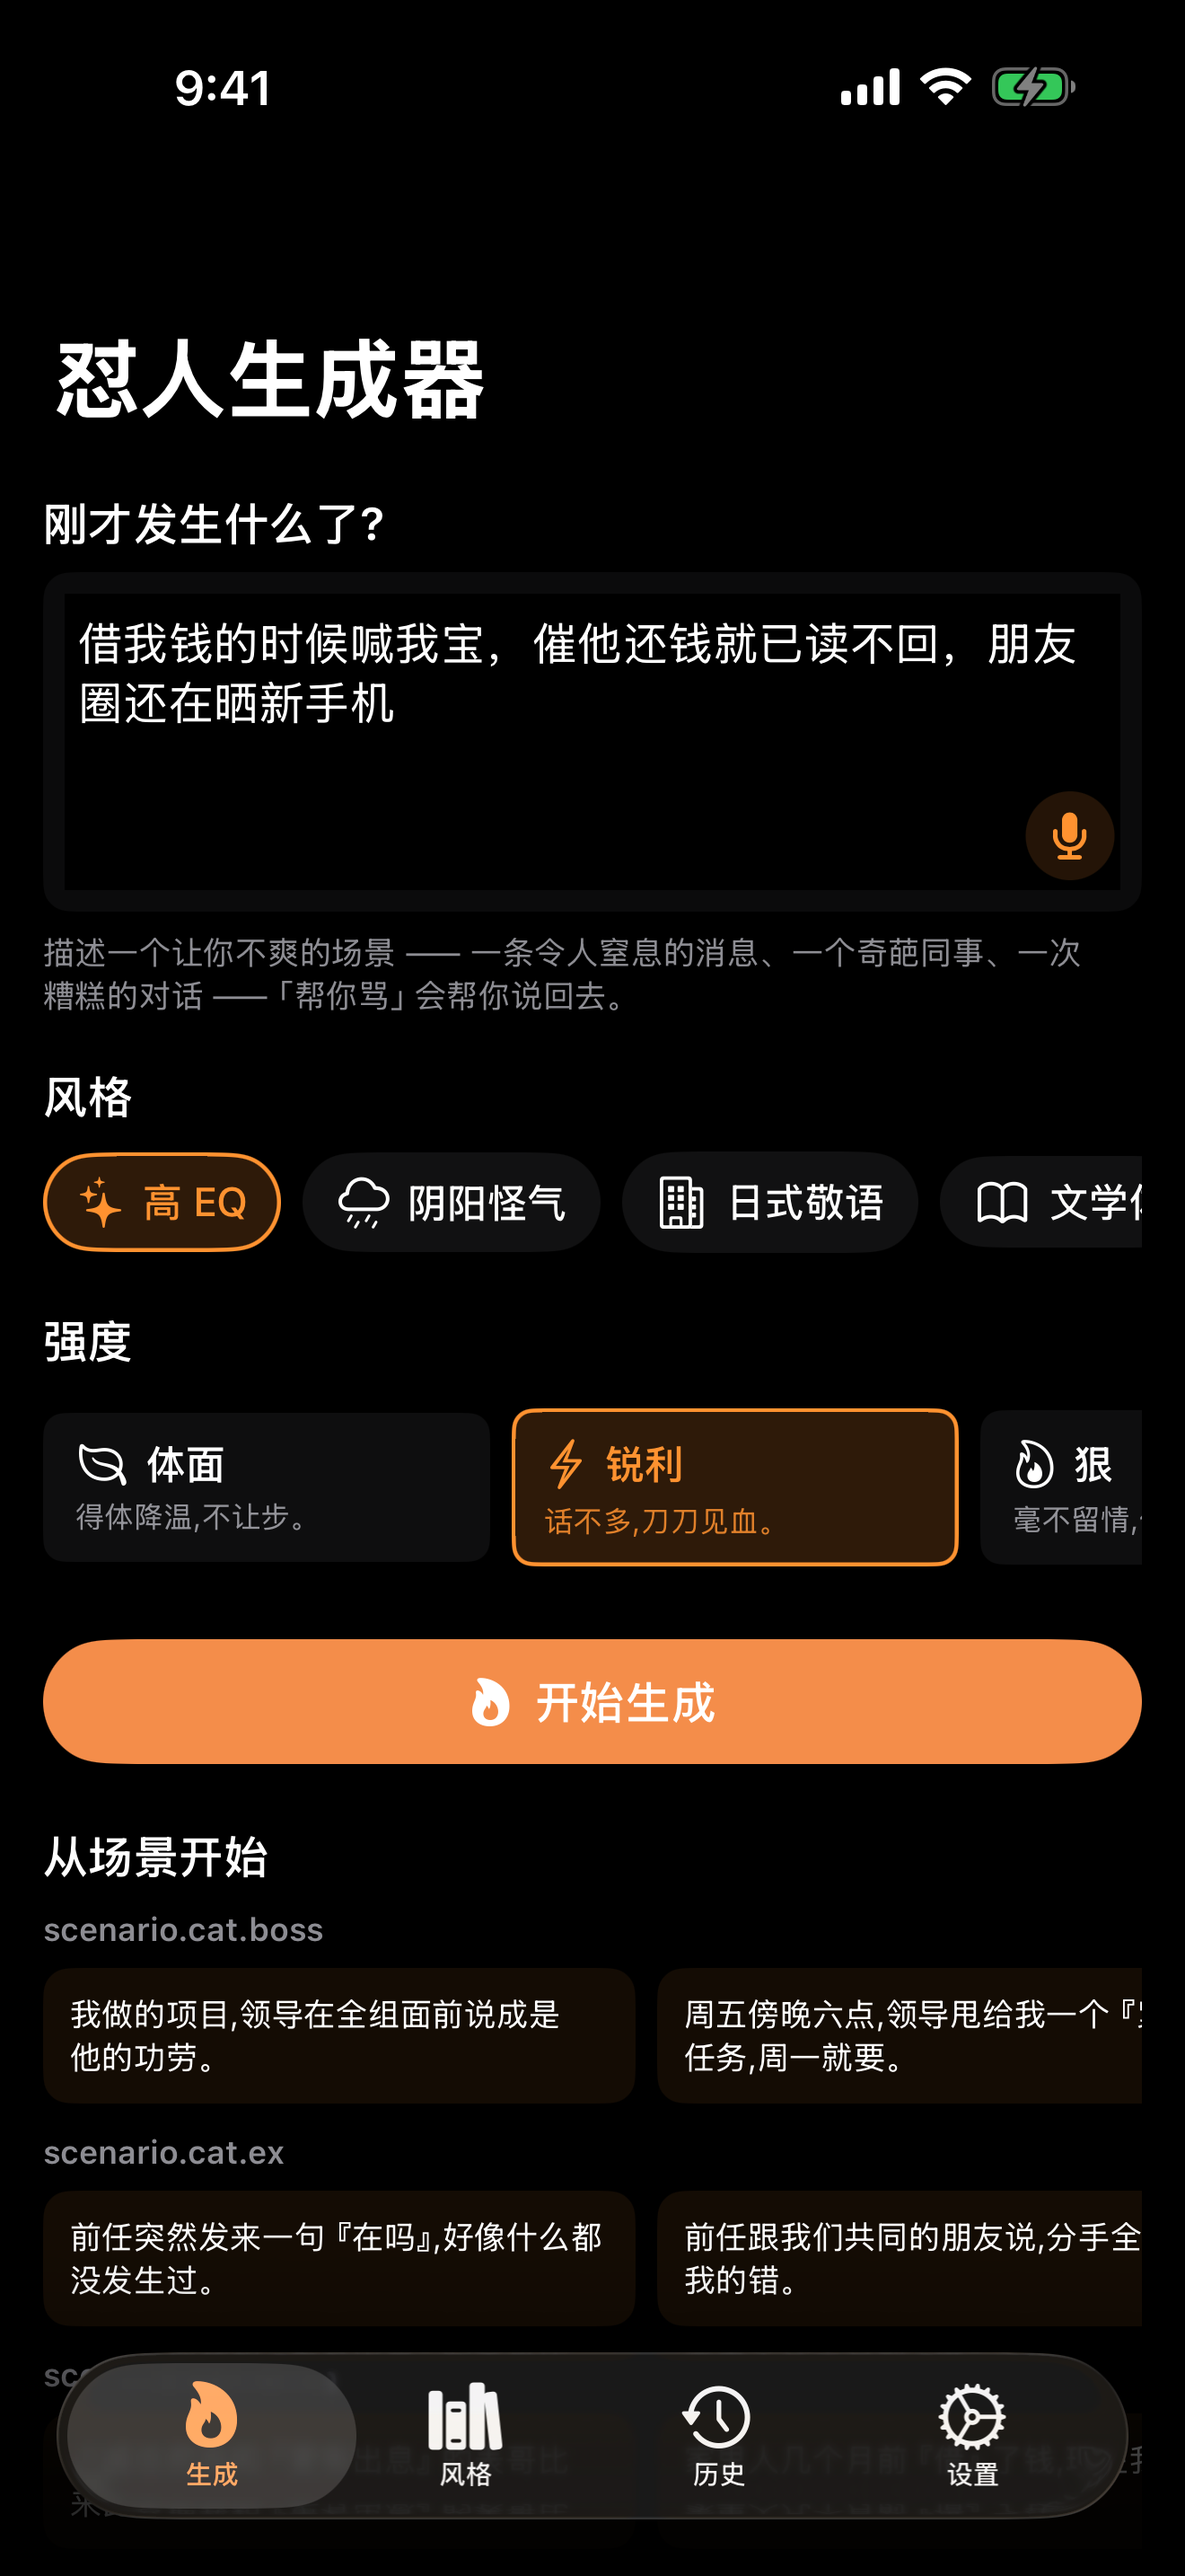
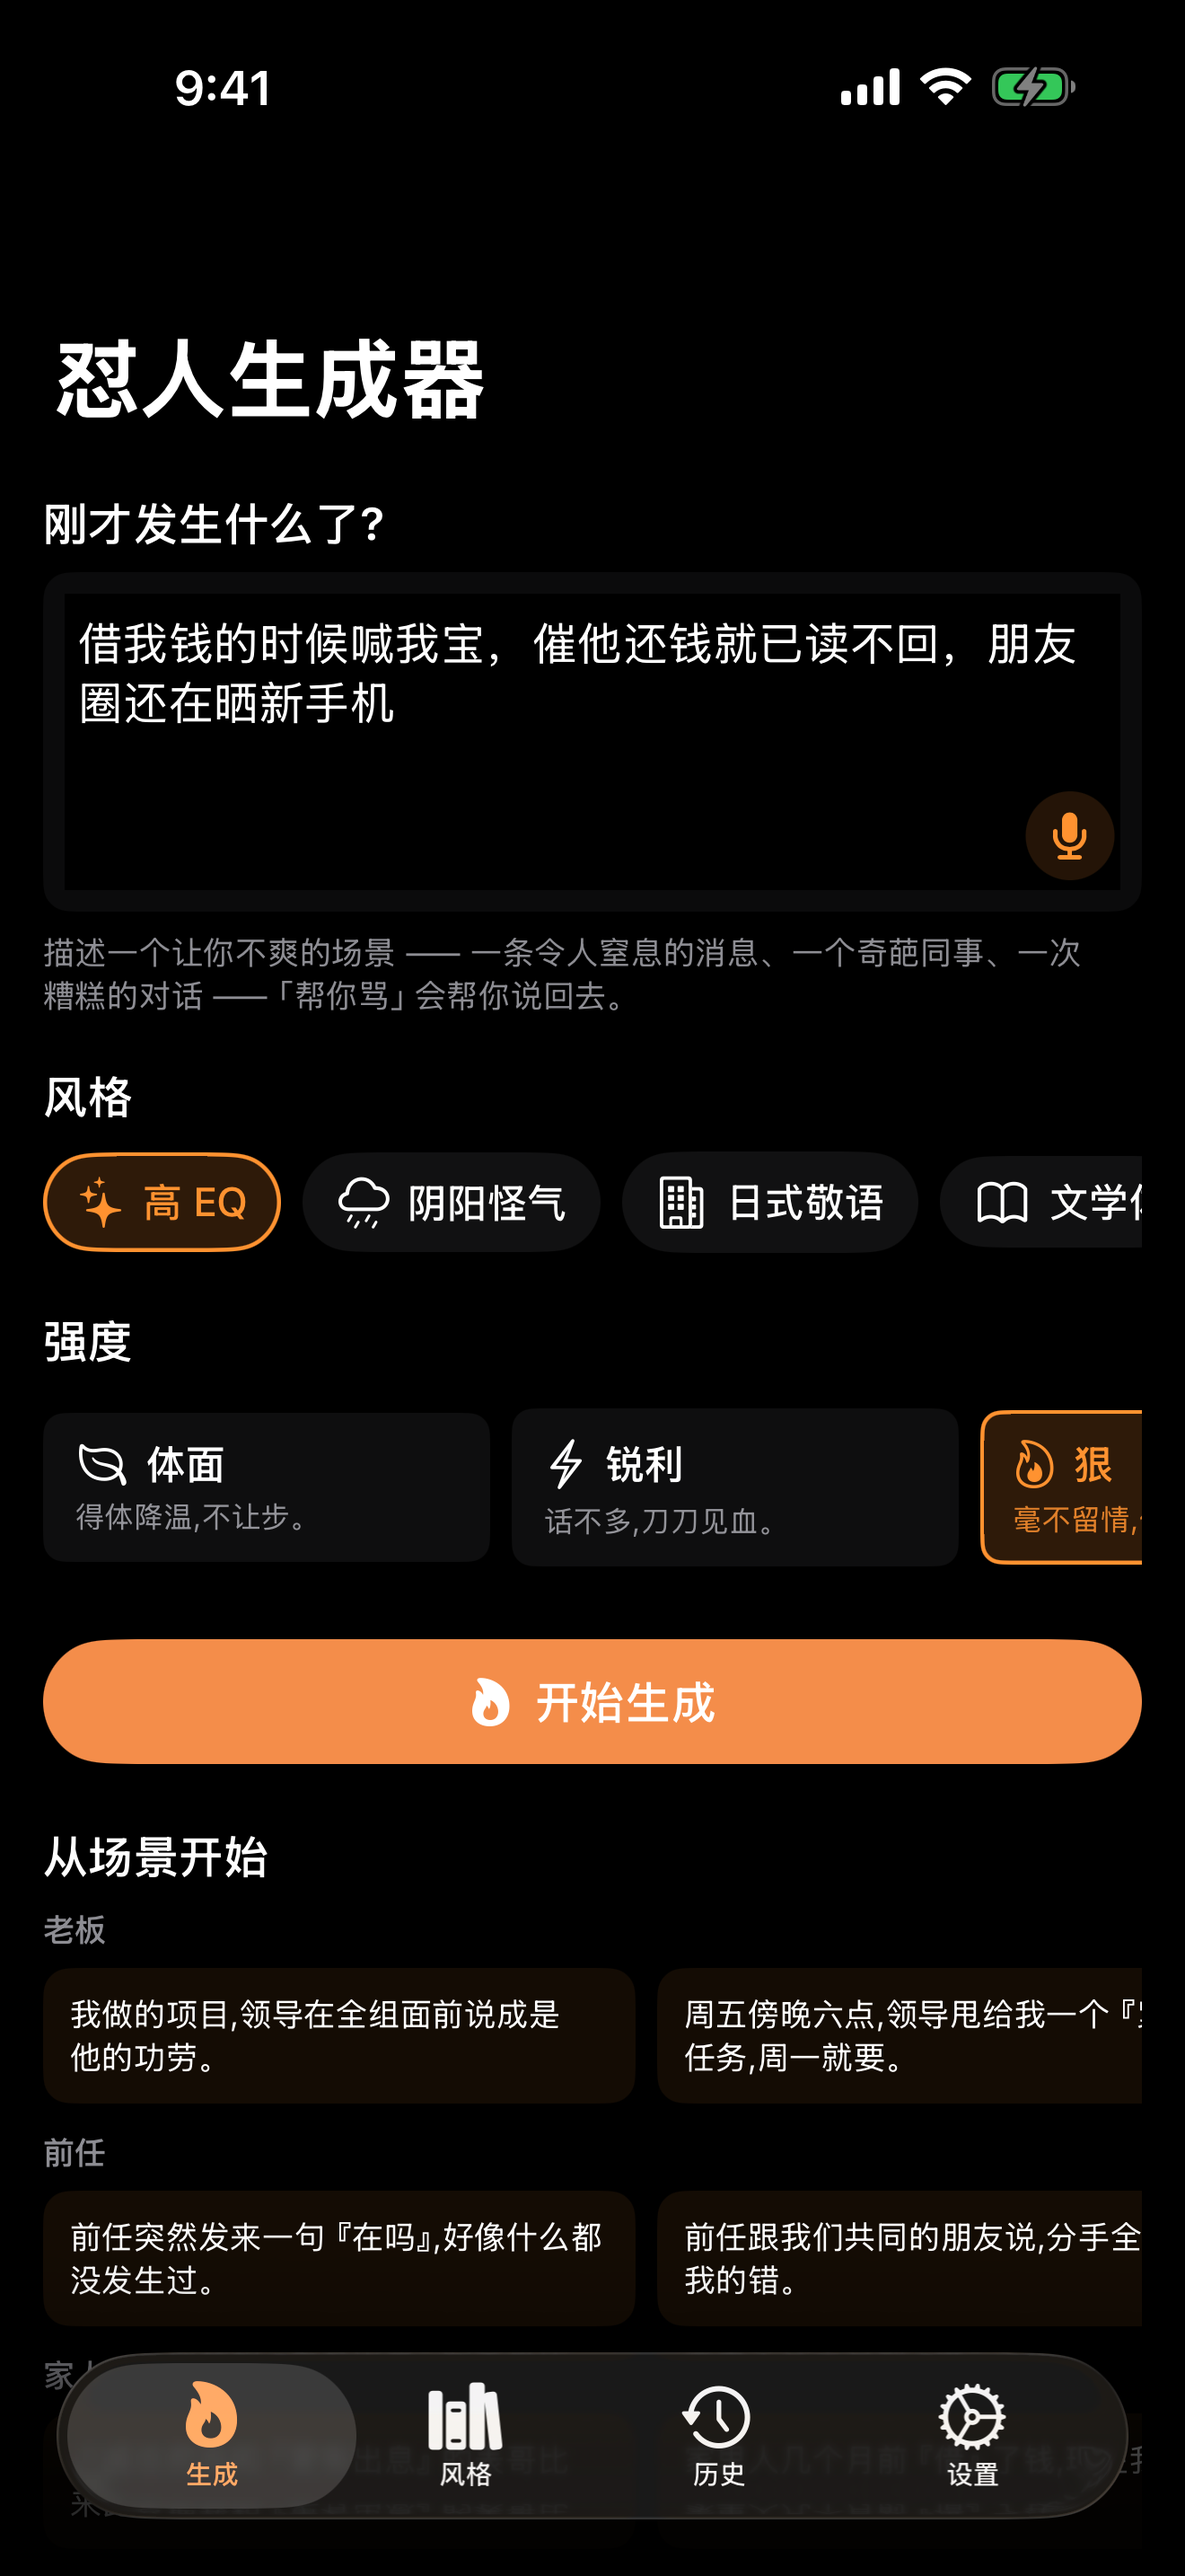
小红书截图 v2:全部骂文改为真实云端输出 + 新增发泄输出截图
- Echoes 场景切狂怒(消费舍友群场景已授的同一云端同意)→ 但发现经典
  Echoes 的 feral 云端从未接线(EchoesEngine useCloud=false 的 v1 TODO),
  狂怒授权后仍走本地→护栏拦→curated 兜底,截图只能拿到温和转写。
- 新增第 8 幕:bridge 预填后切「发泄」强度 → 过 vent 云端同意单 →
  真实云端输出(有火力)→ xhs-08-generator-vent.png。
- 云端场景之间加 45s 间隔:Groq 免费档按分钟限流,连发会 429 进
  OpenRouter 慢兜底,轮询超时只截到加载圈(round-4 失败模式);
  bridge/输出轮询相应放宽到 110s/90s。

diff --git a/RoastMateUITests/ScreenshotTests.swift b/RoastMateUITests/ScreenshotTests.swift
@@ -238,6 +238,19 @@ final class ScreenshotTests: XCTestCase {
         echoesSituation.typeText("借我钱的时候喊我宝，催他还钱就已读不回，朋友圈还在晒新手机")
         app.navigationBars.firstMatch.tap()
 
+        // Switch tone to 狂怒 (feral) so this transcript comes from the
+        // CLOUD model — the casual register is on-device/curated and reads
+        // far too gentle for marketing. Consent was already granted in the
+        // roommate scene (same surface), so generation routes straight to
+        // the Worker. Keyboard must be down first (EchoesFlowUITests).
+        let feralInSeg = app.segmentedControls.buttons["狂怒"]
+        let feralPlain = app.buttons["狂怒"]
+        if feralInSeg.waitForExistence(timeout: 3) {
+            feralInSeg.tap()
+        } else if feralPlain.waitForExistence(timeout: 2) {
+            feralPlain.tap()
+        }
+
         let echoesGenerate = anyElement(app, "echoes.generate")
         guard echoesGenerate.waitForExistence(timeout: 5) else { return }
         scrollTries = 0
@@ -245,12 +258,28 @@ final class ScreenshotTests: XCTestCase {
             app.swipeUp()
             scrollTries += 1
         }
+        // Groq's free tier rate-limits per minute and the roommate scene
+        // just consumed the window — without this gap the feral call 429s
+        // into the (slow) OpenRouter fallback and the capture times out
+        // on the loading spinner (round-4 failure mode).
+        sleep(45)
         echoesGenerate.tap()
 
-        // Casual tone = on-device / curated fallback — no consent sheet.
+        // Belt-and-braces: if consent somehow wasn't granted, accept it.
+        let echoesAllow = app.buttons["允许 Feral 走云端"]
+        var echoesConsentTries = 0
+        while !echoesAllow.exists && echoesConsentTries < 4 {
+            sleep(1)
+            echoesConsentTries += 1
+        }
+        if echoesAllow.exists { echoesAllow.tap() }
+
+        // Generous poll: worst case is cloud latency + the app's ~60s
+        // request timeout + curated-fallback reveal — still ends in a
+        // bridge bubble eventually.
         let echoesBridge = anyElement(app, "echoes.bridge")
         revealTries = 0
-        while !echoesBridge.exists && revealTries < 45 {
+        while !echoesBridge.exists && revealTries < 110 {
             sleep(1)
             revealTries += 1
         }
@@ -258,15 +287,67 @@ final class ScreenshotTests: XCTestCase {
         capture(app: app, name: "xhs-06-echoes-chat")
 
         // ── Scene 7: the closing loop — bridge → generator pre-filled ──
-        if echoesBridge.exists {
-            echoesBridge.tap()
-            let generatorSituation = app.textViews["situation_editor"]
-            if generatorSituation.waitForExistence(timeout: 10) {
-                // Give EchoBridgeStore a beat to pre-fill the grievance.
-                sleep(2)
-                capture(app: app, name: "xhs-07-bridge-rewrite")
-            }
+        guard echoesBridge.exists else { return }
+        echoesBridge.tap()
+        let generatorSituation = app.textViews["situation_editor"]
+        guard generatorSituation.waitForExistence(timeout: 10) else { return }
+        // Give EchoBridgeStore a beat to pre-fill the grievance.
+        sleep(2)
+        capture(app: app, name: "xhs-07-bridge-rewrite")
+
+        // ── Scene 8: generator VENT output — the cloud roast itself ──
+        // 发泄 routes through the cloud Worker (after its own consent,
+        // separate from the Echoes one) — the on-device register is far
+        // too gentle for the marketing "先骂个爽" promise. The 发泄 chip
+        // sits past 体面/锐利/狠 in the horizontal intensity row: drag
+        // the row left using a visible chip as the anchor until hittable.
+        let ventChip = app.buttons.matching(
+            NSPredicate(format: "label BEGINSWITH '发泄'")).firstMatch
+        let anchorChip = app.buttons.matching(
+            NSPredicate(format: "label BEGINSWITH '锐利' OR label BEGINSWITH '狠'")).firstMatch
+        var chipTries = 0
+        while !ventChip.isHittable && anchorChip.exists && chipTries < 5 {
+            let start = anchorChip.coordinate(withNormalizedOffset: CGVector(dx: 0.5, dy: 0.5))
+            let end = anchorChip.coordinate(withNormalizedOffset: CGVector(dx: -2.5, dy: 0.5))
+            start.press(forDuration: 0.05, thenDragTo: end)
+            chipTries += 1
         }
+        guard ventChip.exists else { return }
+        ventChip.tap()
+
+        let startGenerate = app.buttons["开始生成"].firstMatch
+        guard startGenerate.waitForExistence(timeout: 5) else { return }
+        var genScrolls = 0
+        while !startGenerate.isHittable && genScrolls < 3 {
+            app.swipeUp()
+            genScrolls += 1
+        }
+        // Same Groq per-minute window logic as the echoes scene above.
+        sleep(45)
+        startGenerate.tap()
+
+        // First vent generation presents the Vent/Feral cloud-consent
+        // sheet (separate surface from Echoes). Accept → cloud output.
+        let ventAllow = app.buttons["允许使用云端 AI"]
+        var ventConsentTries = 0
+        while !ventAllow.exists && ventConsentTries < 10 {
+            sleep(1)
+            ventConsentTries += 1
+        }
+        if ventAllow.exists { ventAllow.tap() }
+
+        // Wait for the output card: the private-draft actions (改成能发的
+        // rewrite CTA) appear under the generated text. Poll generously —
+        // cloud latency + streaming/typewriter render.
+        let sendable = app.descendants(matching: .any).matching(
+            NSPredicate(format: "label CONTAINS '改成能发'")).firstMatch
+        var outputTries = 0
+        while !sendable.exists && outputTries < 90 {
+            sleep(1)
+            outputTries += 1
+        }
+        sleep(2)
+        capture(app: app, name: "xhs-08-generator-vent")
     }
 
     /// Find an element by accessibility id across the element types a
